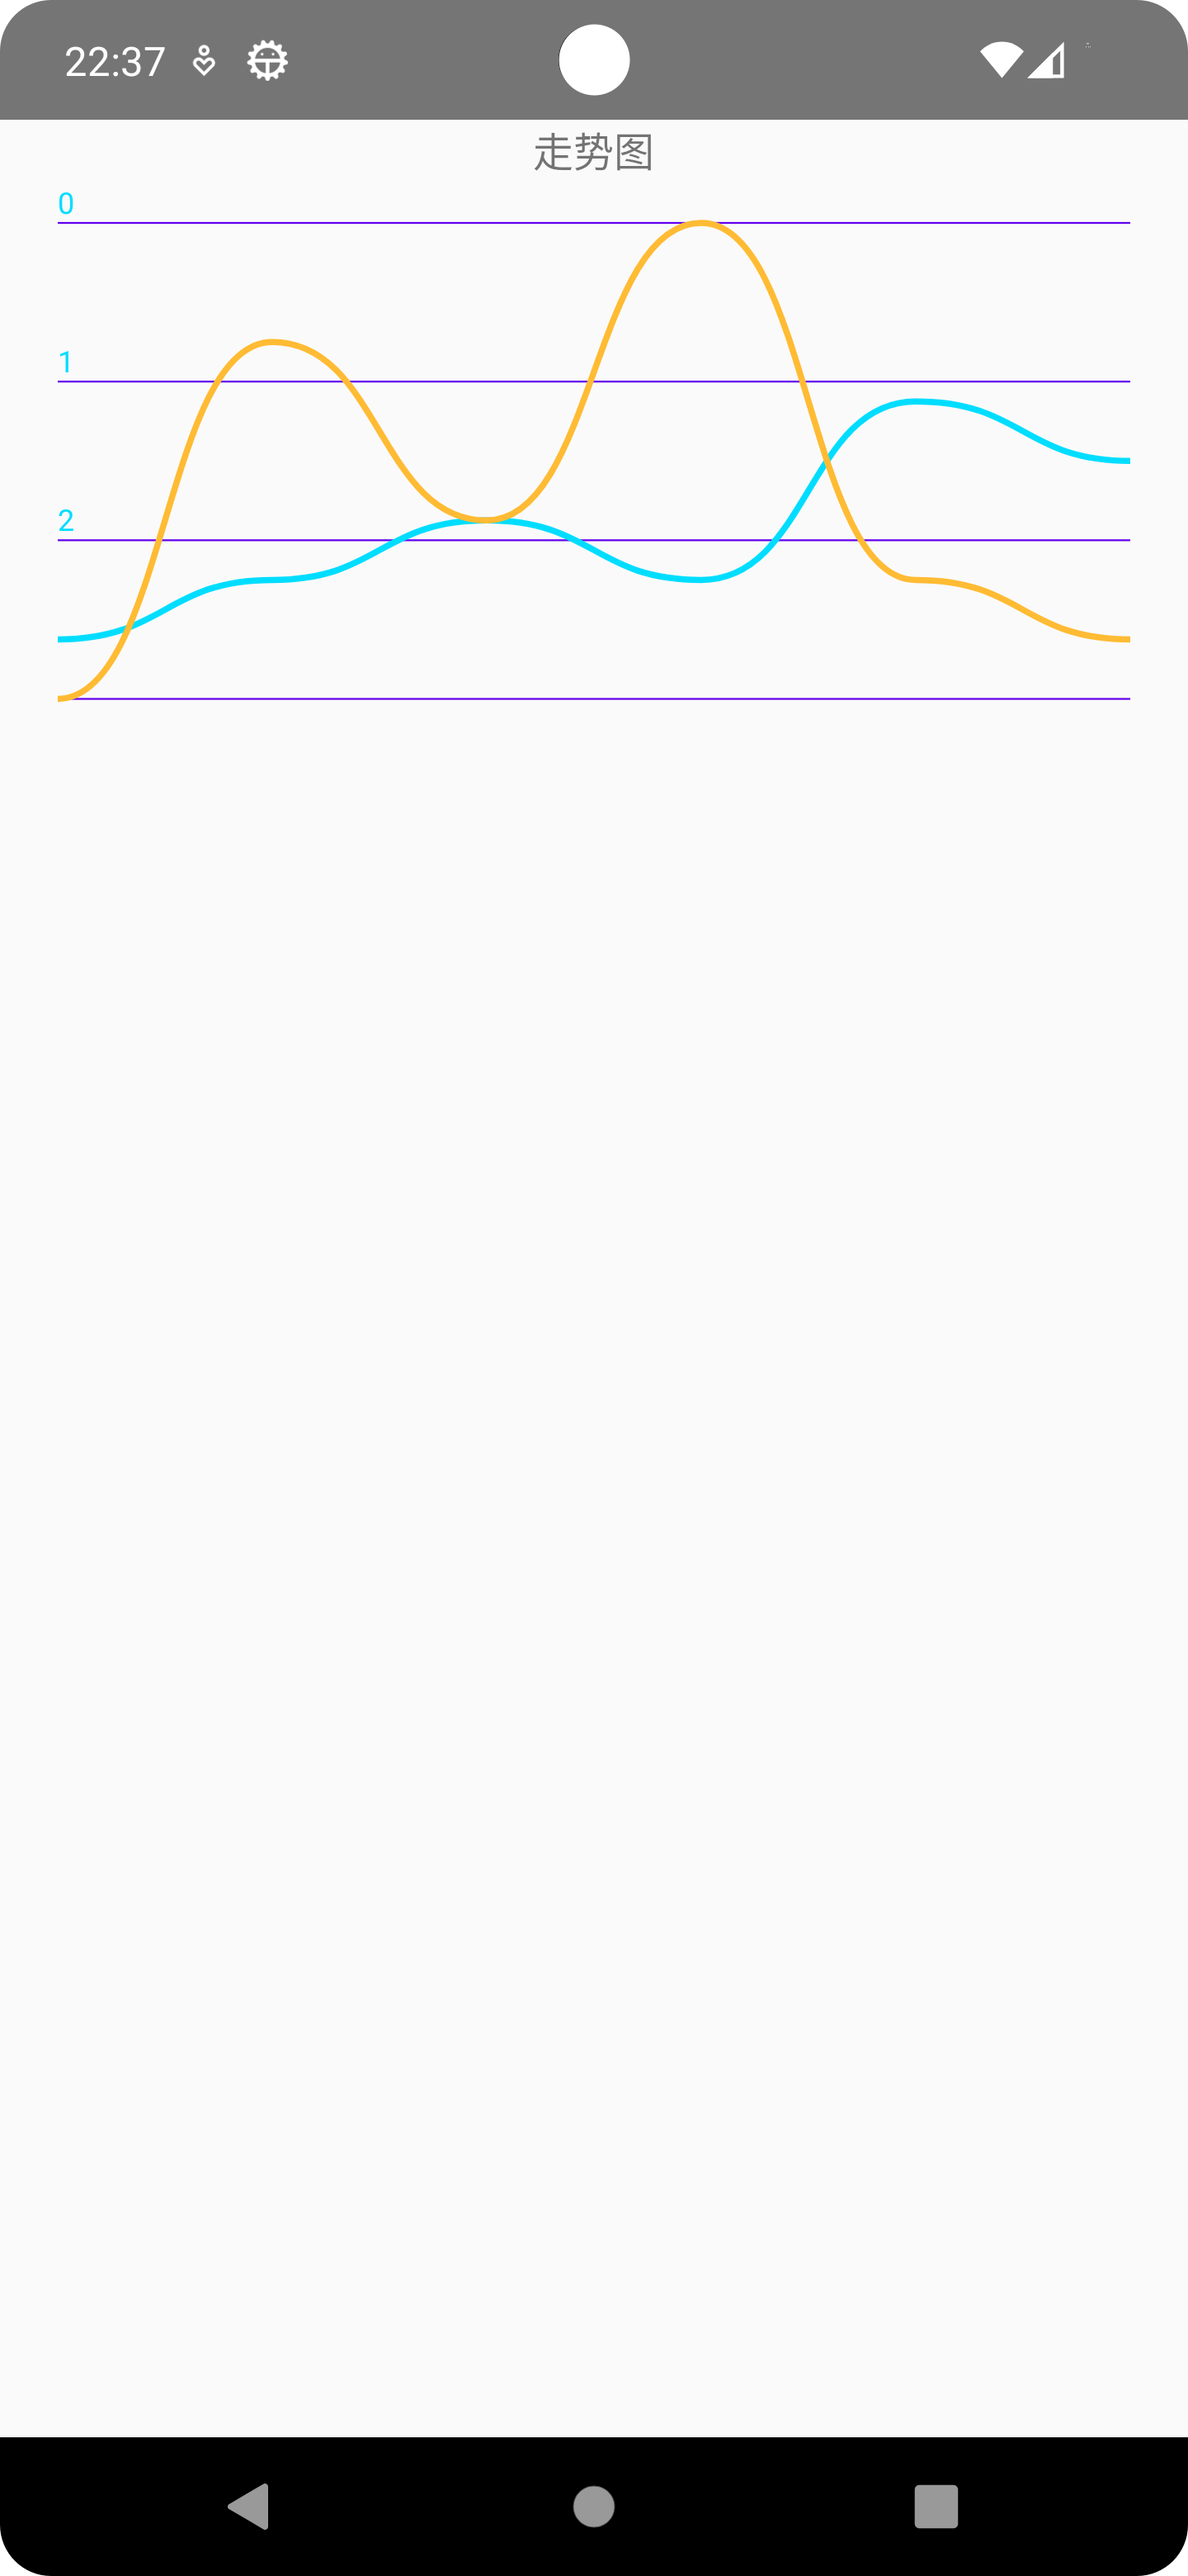
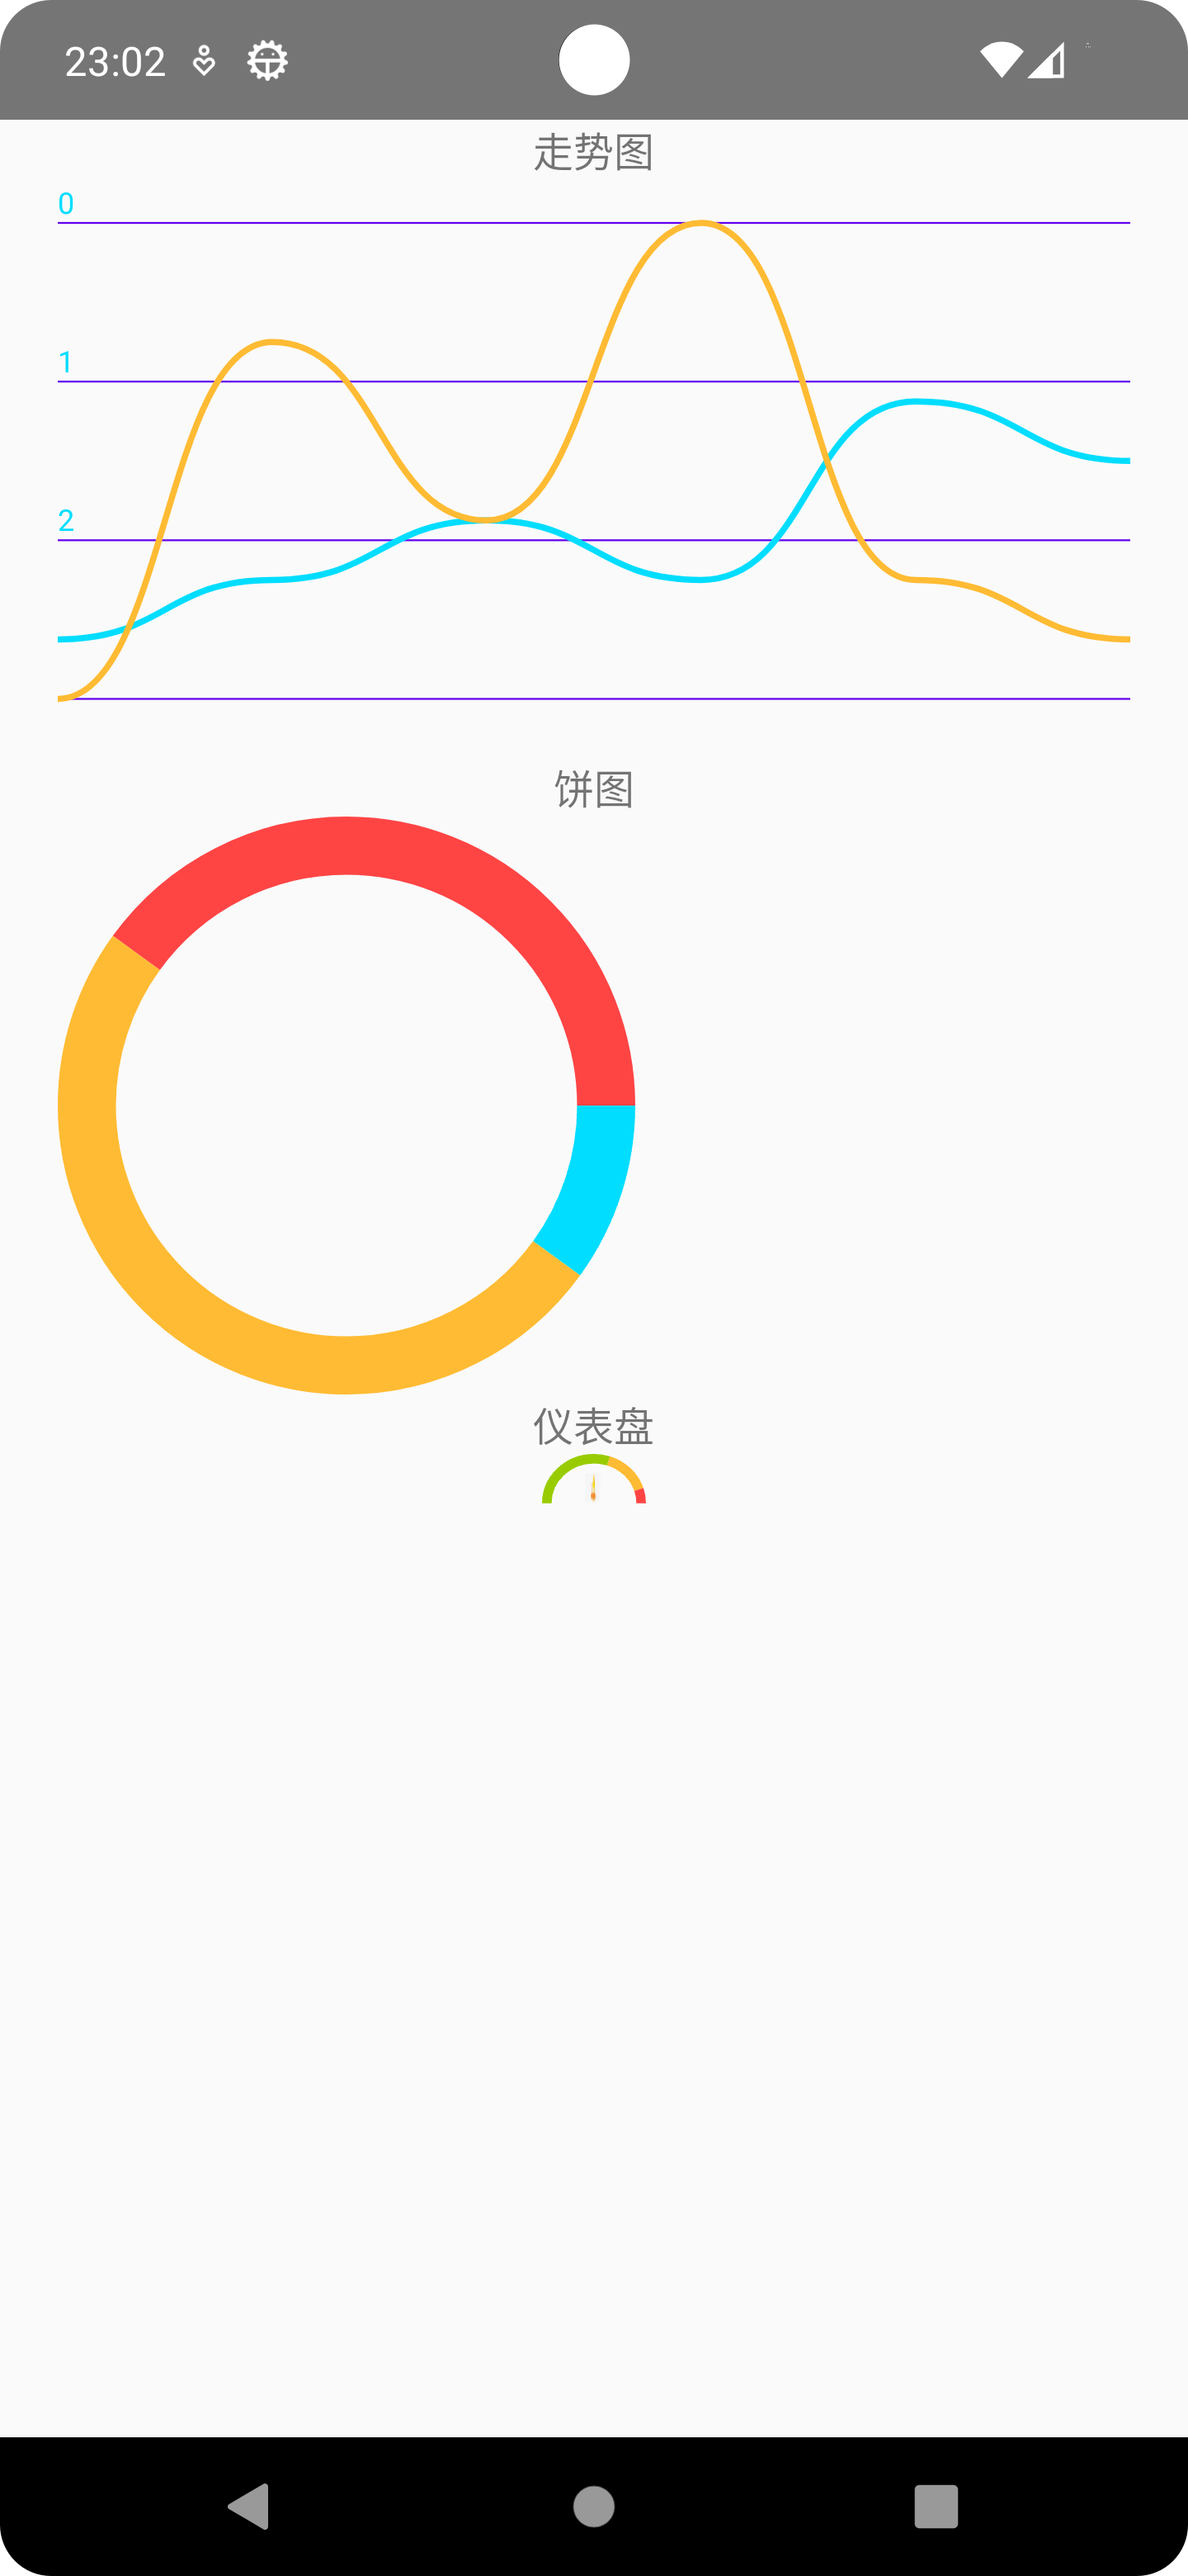
readme

Changed region(s): [[0.0312, 0.3109, 0.5312, 0.5596], [0.4375, 0.5285, 0.5625, 0.5907], [0.4688, 0.2798, 0.5312, 0.3109]]

diff --git a/app/src/main/java/com/example/app/chart/DashBoardView.kt b/app/src/main/java/com/example/app/chart/DashBoardView.kt
@@ -1,0 +1,201 @@
+package com.example.app.chart
+
+import android.animation.ValueAnimator
+import android.annotation.SuppressLint
+import android.content.Context
+import android.graphics.Bitmap
+import android.graphics.BitmapFactory
+import android.graphics.Canvas
+import android.graphics.Matrix
+import android.graphics.Paint
+import android.graphics.Point
+import android.graphics.RectF
+import android.os.Build
+import android.util.AttributeSet
+import android.view.View
+import android.view.WindowManager
+import android.view.animation.AccelerateDecelerateInterpolator
+import androidx.core.content.ContextCompat
+import com.example.app.R
+import kotlin.math.absoluteValue
+
+class DashBoardView : View {
+    private val defaultWidth = dp2px(context, 36f).toInt()//默认宽度
+    private var boardHeight = 0
+    private var boardWidth = 0
+    private var ringStroke = dp2px(context, 4f).toFloat()//默认环宽度
+    private var bottomPadding = dp2px(context, 1f).toFloat()
+    private lateinit var ringPaint: Paint
+    private lateinit var bitmapPaint: Paint
+    private lateinit var bitmap: Bitmap
+    private var mValueAnimator: ValueAnimator? = null
+
+    private var pairs = listOf(
+        Triple(0.0, 0.6, android.R.color.holo_green_light),
+        Triple(0.6, 0.9, android.R.color.holo_orange_light),
+        Triple(0.9, 1.0, android.R.color.holo_red_light)
+    )
+    private var percent: Double = 0.0
+    private var maxPercent = 1.0//默认最大仪表数是1.0
+    private var animate = true
+
+    constructor(context: Context) : super(context) {
+        init()
+    }
+
+    constructor(context: Context, attrs: AttributeSet?) : super(context, attrs) {
+        init()
+    }
+
+    private fun init() {
+        ringPaint = Paint()
+        ringPaint.isAntiAlias = true
+        ringPaint.style = Paint.Style.STROKE
+
+        bitmapPaint = Paint()
+        bitmapPaint.isAntiAlias = true
+
+        bitmap = BitmapFactory.decodeResource(resources, R.mipmap.needle)
+    }
+
+    override fun onMeasure(widthMeasureSpec: Int, heightMeasureSpec: Int) {
+        super.onMeasure(widthMeasureSpec, heightMeasureSpec)
+        val widthMode = MeasureSpec.getMode(widthMeasureSpec)
+        boardWidth = if (widthMode == MeasureSpec.EXACTLY) {
+            MeasureSpec.getSize(widthMeasureSpec)
+        } else {
+            defaultWidth
+        }
+        if (boardWidth > getScreenWidth(context)) {
+            boardWidth = getScreenWidth(context)
+        }
+        boardHeight = boardWidth / 2
+        //按比例设置下底部间距
+        bottomPadding = 2f / 19f * boardHeight
+        //按比例设置下圆环宽度
+        ringStroke = 3.5f / 19f * boardHeight
+        ringPaint.strokeWidth = ringStroke
+        setMeasuredDimension(boardWidth, boardHeight)
+    }
+
+    @SuppressLint("DrawAllocation")
+    override fun onDraw(canvas: Canvas?) {
+        super.onDraw(canvas)
+        val rectF = RectF(
+            ringStroke / 2f,
+            ringStroke / 2f,
+            boardWidth.toFloat() - ringStroke / 2f,
+            boardWidth.toFloat() - ringStroke / 2f - bottomPadding
+        )
+        //绘制仪表
+        pairs.forEach {
+            ringPaint.color = ContextCompat.getColor(context, it.third)
+            canvas?.drawArc(
+                rectF,
+                ((1 - it.first / maxPercent) * -180f).toFloat(),
+                ((it.second - it.first) / maxPercent * 180f).toFloat(),
+                false,
+                ringPaint
+            )
+        }
+        //按比例设置下指针宽高
+        val scale: Float = (12f / 19f * boardHeight) / bitmap.height
+        bitmap = scale(bitmap, scale, scale)!!
+        canvas?.save()
+
+        canvas?.translate(
+            (boardWidth - bitmap.width) / 2f,
+            (boardHeight - bitmap.height).toFloat()
+        )
+        //获取旋转的角度
+        val actualPer = percent / maxPercent
+        val degree = if (actualPer <= 0.5) {
+            (90f * actualPer / 0.5f) - 90f
+        } else {
+            90f * ((actualPer - 0.5f) / 0.5f)
+        }
+        canvas?.rotate(
+            degree.toFloat(),
+            bitmap.width / 2f,
+            //减去半个宽度，使旋转中心刚好在指针的小圈里
+            bitmap.height.toFloat() - bitmap.width / 2f
+        )
+        canvas?.drawBitmap(bitmap, 0f, 0f, null)
+        canvas?.restore()
+    }
+
+    override fun onDetachedFromWindow() {
+        super.onDetachedFromWindow()
+        //取消动画
+        if (mValueAnimator != null && mValueAnimator!!.isRunning) mValueAnimator?.cancel()
+    }
+
+    fun setData(newParis: List<Triple<Double, Double, Int>>) {
+        if (newParis.isNullOrEmpty()) {
+            return
+        }
+        pairs = newParis
+        maxPercent = newParis[pairs.size - 1].second
+        invalidate()
+    }
+
+    fun setPercent(newPercent: Double, animate: Boolean = true) {
+        val validPercent = when {
+            newPercent < 0 -> 0.0
+            newPercent > maxPercent -> maxPercent
+            else -> newPercent
+        }
+        if (animate) {
+            mValueAnimator = ValueAnimator.ofFloat((-percent).toFloat(), validPercent.toFloat())
+            mValueAnimator?.duration =
+                (500f * ((percent + validPercent) / maxPercent * 2f)).toLong()
+            mValueAnimator?.interpolator = AccelerateDecelerateInterpolator()
+            mValueAnimator?.addUpdateListener {
+                percent = (it.animatedValue as Float).absoluteValue.toDouble()
+                invalidate()
+            }
+            mValueAnimator?.start()
+        } else {
+            percent = validPercent
+            invalidate()
+        }
+    }
+
+    fun getPercent() = percent
+
+    fun dp2px(context: Context, dpValue: Float): Float {
+        val scale = context.resources.displayMetrics.density
+        return (dpValue * scale + 0.5f)
+    }
+
+    fun getScreenWidth(context: Context): Int {
+        val wm = context.getSystemService(Context.WINDOW_SERVICE) as WindowManager?
+            ?: return -1
+        val point = Point()
+        if (Build.VERSION.SDK_INT >= Build.VERSION_CODES.JELLY_BEAN_MR1) {
+            wm.defaultDisplay.getRealSize(point)
+        } else {
+            wm.defaultDisplay.getSize(point)
+        }
+        return point.x
+    }
+
+    fun scale(
+        src: Bitmap?,
+        scaleWidth: Float,
+        scaleHeight: Float,
+        recycle: Boolean = false
+    ): Bitmap? {
+        if (src == null) return null
+        if (isEmptyBitmap(src)) return null
+        val matrix = Matrix()
+        matrix.setScale(scaleWidth, scaleHeight)
+        val ret = Bitmap.createBitmap(src, 0, 0, src.width, src.height, matrix, true)
+        if (recycle && !src.isRecycled && ret != src) src.recycle()
+        return ret
+    }
+
+    private fun isEmptyBitmap(src: Bitmap?): Boolean {
+        return src == null || src.width == 0 || src.height == 0
+    }
+}

diff --git a/app/src/main/java/com/example/app/chart/PieChartView.kt b/app/src/main/java/com/example/app/chart/PieChartView.kt
@@ -1,0 +1,137 @@
+package com.example.app.chart
+
+import android.animation.ValueAnimator
+import android.content.Context
+import android.graphics.Canvas
+import android.graphics.Color
+import android.graphics.Paint
+import android.graphics.Path
+import android.graphics.PathMeasure
+import android.util.AttributeSet
+import android.view.View
+import android.view.animation.AccelerateDecelerateInterpolator
+import androidx.core.content.ContextCompat
+
+class PieChartView : View {
+    private val defaultWidth = dp2px(context, 128f) //默认宽度
+    private val defaultHeight = dp2px(context, 128f) //默认高度
+    private val defaultStroke = dp2px(context, 20f)//默认环宽度
+    private var mTypeCount = 6 //默认6种
+
+    private var mWidth = 0
+    private var mHeight = 0
+
+    private lateinit var mList: ArrayList<Triple<Int, String, Double>>
+    private lateinit var mRingPaint: Paint
+    private lateinit var mDrawPath: Path
+    private lateinit var mPathMeasure: PathMeasure
+    private var mValueAnimator: ValueAnimator? = null
+
+    private var mPathLength = 0f //线段总长
+    private var mEndDistance = 0f //当前结束位置
+    private var mPathStarts: MutableList<Float> = arrayListOf() //每段的起始位置
+    private var mPathEnds: MutableList<Float> = arrayListOf() //每段的结束位置
+
+    constructor(context: Context) : super(context) {
+        init()
+    }
+
+    constructor(context: Context, attrs: AttributeSet?) : super(context, attrs) {
+        init()
+    }
+
+    private fun init() {
+        mRingPaint = Paint()
+        mRingPaint.isAntiAlias = true
+        mRingPaint.style = Paint.Style.STROKE
+        mRingPaint.color = Color.parseColor("#5198FA")
+        mRingPaint.strokeWidth = defaultStroke
+
+        mList = arrayListOf()
+        mDrawPath = Path()
+        mPathMeasure = PathMeasure()
+    }
+
+    override fun onMeasure(widthMeasureSpec: Int, heightMeasureSpec: Int) {
+        val widthMode = MeasureSpec.getMode(widthMeasureSpec)
+        val widthSize = if (widthMode == MeasureSpec.EXACTLY) {
+            MeasureSpec.getSize(widthMeasureSpec)
+        } else {
+            defaultWidth.toInt()
+        }
+        val heightMode = MeasureSpec.getMode(heightMeasureSpec)
+        val heightSize = if (heightMode == MeasureSpec.EXACTLY) {
+            MeasureSpec.getSize(heightMeasureSpec)
+        } else {
+            defaultHeight.toInt()
+        }
+        setMeasuredDimension(widthSize, heightSize)
+    }
+
+    override fun onDraw(canvas: Canvas) {
+        super.onDraw(canvas)
+        if (mEndDistance != 0f) {
+            for (i in 0 until mTypeCount) {
+                mDrawPath.reset()
+                mDrawPath.rLineTo(0f, 0f)
+                mRingPaint.color = ContextCompat.getColor(context, mList[i].first)
+                if (mEndDistance >= mPathEnds[i]) {
+                    mPathMeasure.getSegment(mPathStarts[i], mPathEnds[i], mDrawPath, true)
+                } else {
+                    mPathMeasure.getSegment(mPathStarts[i], mEndDistance, mDrawPath, true)
+                }
+                canvas.drawPath(mDrawPath, mRingPaint)
+            }
+        }
+    }
+
+    override fun onDetachedFromWindow() {
+        super.onDetachedFromWindow()
+        if (mValueAnimator?.isRunning == true) mValueAnimator?.cancel() //取消动画
+    }
+
+    //绘制圆环
+    private fun drawRing() {
+        val path = Path()
+        val radius = minOf(mWidth, mHeight) / 2f
+        path.addCircle(radius, radius, radius - mRingPaint.strokeWidth / 2f, Path.Direction.CW)
+        mPathMeasure.setPath(path, false)
+        mPathLength = mPathMeasure.length
+        calculatePaths()
+        mValueAnimator = ValueAnimator.ofFloat(0f, mPathLength)
+        mValueAnimator?.duration = 2000
+        mValueAnimator?.interpolator = AccelerateDecelerateInterpolator()
+        mValueAnimator?.addUpdateListener {
+            mEndDistance = it.animatedValue as Float
+            invalidate()
+        }
+        mValueAnimator?.start()
+    }
+
+    //计算
+    private fun calculatePaths() {
+        var percentSum = 0.0
+        mList.forEach {
+            mPathStarts.add((percentSum * mPathLength).toFloat())
+            percentSum += it.third
+            mPathEnds.add((percentSum * mPathLength).toFloat())
+        }
+    }
+
+    fun setPieData(list: ArrayList<Triple<Int, String, Double>>) {
+        mWidth = measuredWidth
+        mHeight = measuredHeight
+        mList = list
+        mTypeCount = list.size
+
+        mPathStarts.clear()
+        mPathEnds.clear()
+        drawRing()
+    }
+
+    fun dp2px(context: Context, dpValue: Float): Float {
+        val scale = context.resources.displayMetrics.density
+        return (dpValue * scale + 0.5f)
+    }
+
+}

diff --git a/app/src/main/java/com/example/app/chart/ChartActivity.kt b/app/src/main/java/com/example/app/chart/ChartActivity.kt
@@ -29,5 +29,20 @@ class ChartActivity : Activity() {
             )
         }, 200)
 
+        //饼图
+        handler.postDelayed({
+            findViewById<PieChartView>(R.id.pieChartView).setPieData(
+                arrayListOf(
+                    Triple(android.R.color.holo_blue_bright, "", 0.1),
+                    Triple(android.R.color.holo_orange_light, "", 0.5),
+                    Triple(android.R.color.holo_red_light, "", 0.4)
+                )
+            )
+        }, 200)
+
+        //仪表盘
+        handler.postDelayed({
+            findViewById<DashBoardView>(R.id.dashBoardView).setPercent(0.5)
+        }, 500)
     }
 }

diff --git a/README.md b/README.md
@@ -5,10 +5,9 @@
 1. 输入过滤器
 
 * 数字输入过滤器，可设置最大值、最小值、小数位数
-<img src="/img/Screenshot_input_filter.png" width="35%" height="35%"/>
-![avatar](/img/Screenshot_input_filter.png)
+  <img src="/img/Screenshot_input_filter.png" width="35%" height="35%"/>
 
 2. 常用图表
 
-走势图、饼图、仪表盘
-![avatar](/img/Screenshot_chart.png)
+* 走势图、饼图、仪表盘
+  <img src="/img/Screenshot_chart.png" width="35%" height="35%"/>
